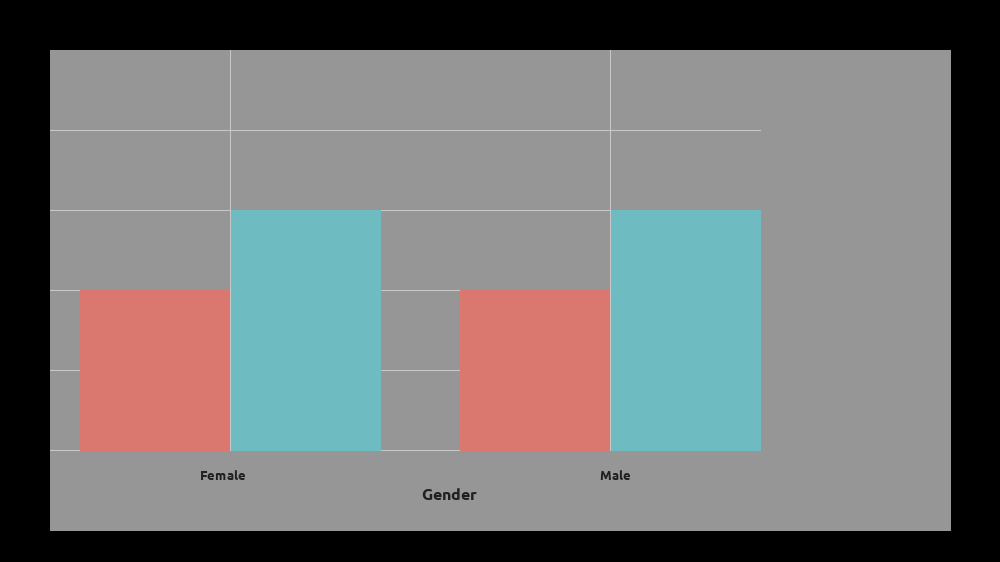
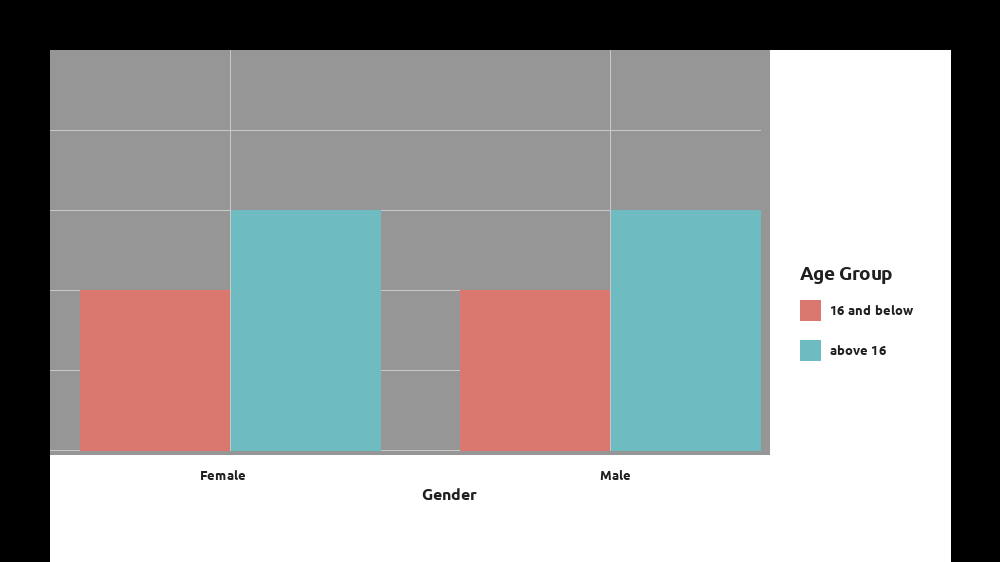
Fixed image, ready to go

diff --git a/portfolio3/part1.php b/portfolio3/part1.php
@@ -134,14 +134,18 @@ function generateHistogram($demographic_data) {
         using the eyedropper tool in Paint
     */
 
+    $font_path = '/usr/share/fonts/truetype/ubuntu/Ubuntu-B.ttf';
     $grey = imageColorAllocate($image, 150, 150, 150);
     $lt_grey = imageColorAllocate($image, 200, 200, 200);
     $dk_grey = imageColorAllocate($image, 32, 32, 32);
     $cyan = imageColorAllocate($image, 110, 188, 193);
     $salmon = imageColorAllocate($image, 218, 120, 112);
+    $white = imageColorAllocate($image, 255, 255, 255);
 
-    imagefilledrectangle($image, 50, 530, 950, 50, $grey);
+    # Draw grey rectangle
+    imagefilledrectangle($image, 50, 50, 950, 530, $grey);
 
+    # Draw horizontal grid lines
     for ($i=0; $i<$max_val; $i++) {
         $tlx = 50;
         $tly = BAR_TOP - (int)((BAR_TOP - BAR_BASE) * $i/$max_val);
@@ -151,6 +155,7 @@ function generateHistogram($demographic_data) {
     }
 
 
+    # Draw the bar for females 16 and below
     $tlx = MARGIN;
     $tly = BAR_TOP - (int)((BAR_TOP - BAR_BASE) * $d['Female']['16 and below']/$max_val);
     echo $tly . "\n";
@@ -158,6 +163,7 @@ function generateHistogram($demographic_data) {
     $bry = BAR_TOP;
     imagefilledrectangle($image, $tlx, $tly, $brx, $bry, $salmon);
     
+    # Draw the bar for females above 16
     $tlx = $brx + SPACER;
     $tly = BAR_TOP - (int)((BAR_TOP - BAR_BASE) * $d['Female']['above 16']/$max_val);
     $brx = $tlx + BAR_WIDTH;
@@ -165,12 +171,14 @@ function generateHistogram($demographic_data) {
     imagefilledrectangle($image, $tlx, $tly, $brx, $bry, $cyan);
     imageline($image, $tlx, BAR_BASE, $tlx, BAR_TOP, $lt_grey);
 
+    # Draw the bar for males 16 and below
     $tlx = $brx + MARGIN;
     $tly = BAR_TOP - (int)((BAR_TOP - BAR_BASE) * $d['Male']['16 and below']/$max_val);
     $brx = $tlx + BAR_WIDTH;
     $bry = BAR_TOP;
     imagefilledrectangle($image, $tlx, $tly, $brx, $bry, $salmon);
     
+    # Draw the bar for males above 16
     $tlx = $brx + SPACER;
     $tly = BAR_TOP - (int)((BAR_TOP - BAR_BASE) * $d['Male']['above 16']/$max_val);
     $brx = $tlx + BAR_WIDTH;
@@ -178,29 +186,70 @@ function generateHistogram($demographic_data) {
     imagefilledrectangle($image, $tlx, $tly, $brx, $bry, $cyan);
     imageline($image, $tlx, BAR_BASE, $tlx, BAR_TOP, $lt_grey);
 
-    $font_path = '/usr/share/fonts/truetype/ubuntu/Ubuntu-B.ttf';
+    # Draw the white bar at the bottom
+    $tlx = 50;
+    $tly = 500;
+    $brx = 950;
+    $bry = HEIGHT;
+    imagefilledrectangle($image, $tlx, $tly, $brx, $bry, $white);
+
+    # Draw the white 'insert' at the right
+    $tlx = 4 * BAR_WIDTH + 2 * MARGIN + 2 * SPACER + 10;
+    $tly = 50;
+    $brx = 950;
+    $bry = HEIGHT;
+    imagefilledrectangle($image, $tlx, $tly, $brx, $bry, $white);
+
+    # Draw the legend
+
+    # Draw the blue box
+    $tlx = 4 * BAR_WIDTH + 2 * MARGIN + 2 * SPACER + 40;
+    $tly = 300;
+    $brx = 4 * BAR_WIDTH + 2 * MARGIN + 2 * SPACER + 60;
+    $bry = 320;
+    imagefilledrectangle($image, $tlx, $tly, $brx, $bry, $salmon);
+
+    # Draw the salmon box
+    $tlx = 4 * BAR_WIDTH + 2 * MARGIN + 2 * SPACER + 40;
+    $tly = 340;
+    $brx = 4 * BAR_WIDTH + 2 * MARGIN + 2 * SPACER + 60;
+    $bry = 360;
+    imagefilledrectangle($image, $tlx, $tly, $brx, $bry, $cyan);
+
+    # Draw the text legends on the right
+
+    imagettftext($image, 14, 0, 4 * BAR_WIDTH + 2 * MARGIN + 2 * SPACER + 40, 
+                    280, $dk_grey, $font_path, 'Age Group');
+
+    imagettftext($image, 10, 0, 4 * BAR_WIDTH + 2 * MARGIN + 2 * SPACER + 70, 
+                    315, $dk_grey, $font_path, '16 and below');
+
+    imagettftext($image, 10, 0, 4 * BAR_WIDTH + 2 * MARGIN + 2 * SPACER + 70, 
+                    355, $dk_grey, $font_path, 'above 16');
+
+
+    # Draw the text legends at the bottom of tge screen
 
     imagettftext($image, 10, 0, (int)BAR_WIDTH + 50, 480, $dk_grey, $font_path, 'Female');
 
     imagettftext($image, 10, 0, (int)3*BAR_WIDTH + 150, 480, $dk_grey, $font_path, 'Male');
 
-    imagettftext($image, 12, 0, 422, 500, $dk_grey, $font_path, 'Gender');
+    imagettftext($image, 12, 0, 422, 550, $dk_grey, $font_path, 'Gender');
 
-    imagepng($image, '/home/rdapaz/uni/CSG6206/portfolio3/demo.png');
-    imagedestroy($image);
 }
 
 /*  Part e. 
-        Create a SQLite3 database with one database table
- */
+    Create a SQLite3 database with one database table
+*/
 
 $path = "/home/rdapaz/uni/CSG6206/portfolio3/demo.db";
 $db = new SQLite3($path);
 $db->enableExceptions(true);
 
-/* We will now create the table in our database to store
- the data in our array
- */
+/* 
+   We will now create the table in our database to store
+   the data in our array
+*/
 
 $sql =<<<EOF
     CREATE TABLE IF NOT EXISTS demographics
@@ -216,7 +265,7 @@ try {
     $ret = $db->exec($sql);
 } 
 catch (Exception $e) {
-    echo 'Caught Exception: ' . $e.getMessage();
+    echo 'Caught Exception: ' . $e->getMessage();
 }
 
 /* 
@@ -238,7 +287,8 @@ foreach ($data as $p) {
         $insert = $smt->execute();
     } 
     catch (Exception $e) {
-        echo 'Caught Exception: ' . $e.getMessage();
+        echo 'Caught Exception: ' . $e->getMessage();
+        break;
     }
 }
 

diff --git a/portfolio3/part2.php b/portfolio3/part2.php
@@ -82,7 +82,7 @@ if ($path == false) {
 // $path = "/home/rdapaz/uni/CSG6206/portfolio3/demo.db";
 $db = new SQLite3($path);
 
-$sql = "SELECT ID, Name, Gender, Age from demographics
+$sql = "SELECT ID, Name, Gender, Age FROM demographics
         WHERE Gender = 'Female' ORDER BY Age ASC;";
         
 $query_results = generateTable($db, $sql);
